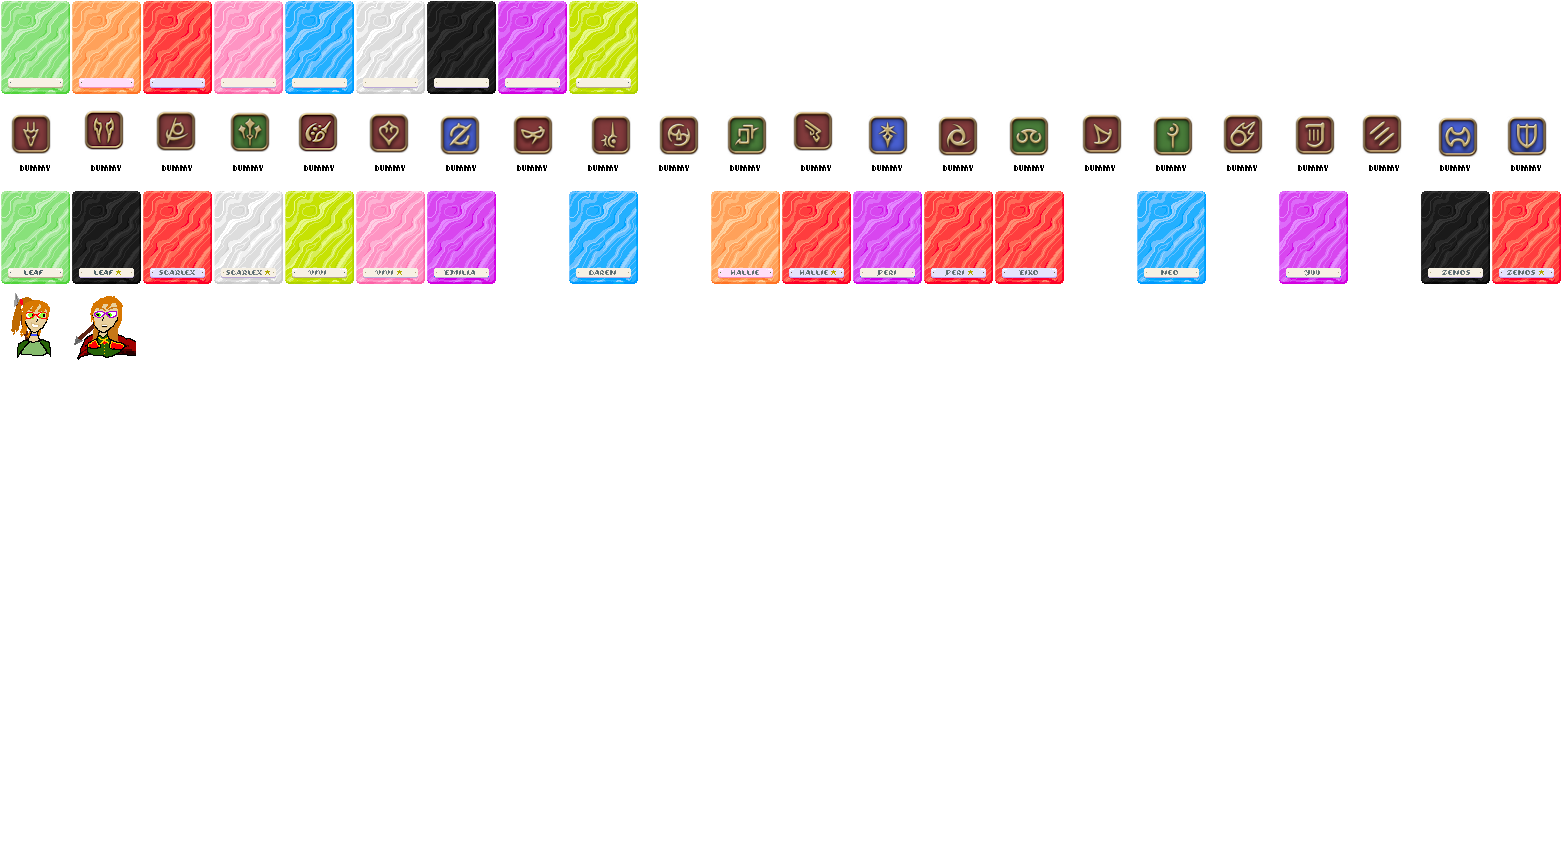
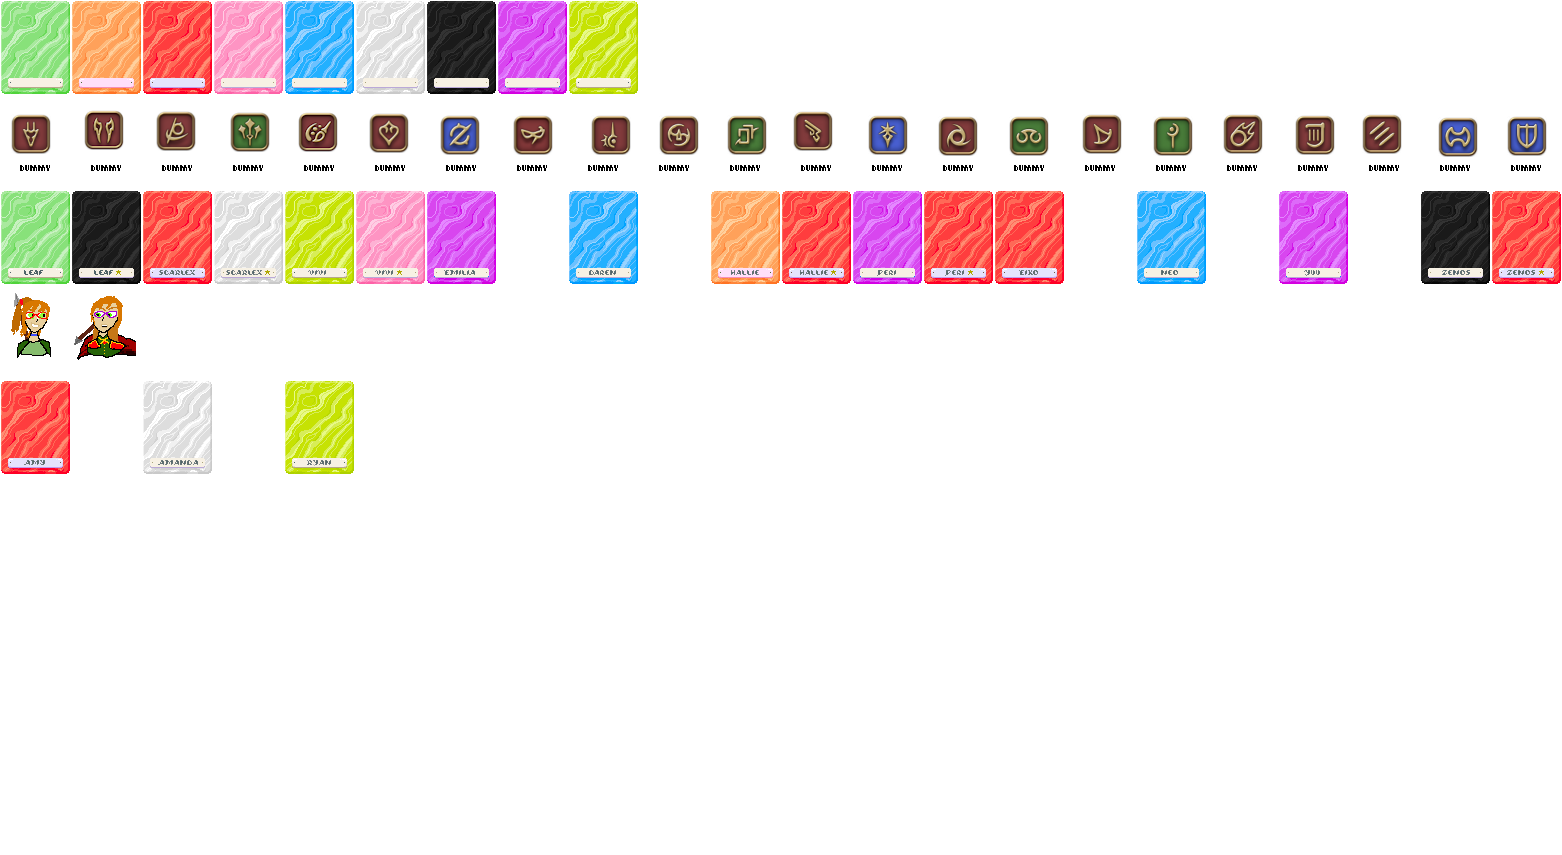
beta placeholders, paratext update, and we can call this the initial release

Changed region(s): [[0.0, 0.4257, 0.0615, 0.5778], [0.1844, 0.4257, 0.2458, 0.5778], [0.0922, 0.4257, 0.1536, 0.5778]]

diff --git a/README.md b/README.md
@@ -8,11 +8,11 @@
 5. Watch number get biggerer
 
 > [!NOTE]
-> This mod is in **pre-release alpha**, you will need to download from source.  
-> Accordingly, we will not be providing support for super basic "how do I install a mod"-level questions at this time. Please read the documents for Lovely and SMODS.
+> This mod is in **early development**.  
+> A lot of the art is still placeholders. No idea how long this will last because I am extremely inconsistent at anything.
 
 ### FAQ (Feasibly Askable Questions) ~~(nobody's asked me anything about this ._.)~~
-**Q**: So the main gimmick is just Jokers That Am OCs?  
+**Q**: So the main gimmick is just Jokers What Am OCs?  
 **A**: Mainly! I'll also put in canon characters if I feel like it.
 
 **Q**: What power level is this mod planned to be?  
@@ -22,10 +22,10 @@
 **A**: ... Not *just*, no... ~~this one's got MY ocs in it!~~ Egotism aside, as much as Bibliography is both inspired by and modeled on [that older project], it's inherently a different mod and will be its own experience. Just for starters, we're going to have different design principles. I'll probably use less xChips than they did, for example.
 
 **Q**: How many Jokers do you plan to add?  
-**A**: I plan to keep putting in Jokers until I run out of characters that I can come up with an idea for. ... I'd like at least 70 before then, but I suppose that's up to my creativity. 
+**A**: I plan to keep putting in Jokers until I run out of characters that I can come up with an in-game effect for. ... I'd like at least 70 before then, but I suppose that's up to my creativity. 
 
 **Q**: How many Jokers do you _actually_ have?  
-**A**: *(comically long pause for audio splicing)* 17 *(comically long pause for audio splicing)* at the moment, unless I forgot to update this README file, which will definitely happen at some point.
+**A**: *(comically long pause for audio splicing)* 20 *(comically long pause for audio splicing)* at the moment, unless I forgot to update this README file, which will definitely happen several times throughout the mod's lifespan.
 
 **Q**: ... Are you accepting suggestions for characters to Jokerfy?  
-**A**: Sure, if you're accepting that there's no timeline on when I get around to actually implementing a given suggestion.
+**A**: Sure, if you're accepting that there's no timeline on when I get around to actually implementing a given suggestion. I should probably set up a form or something, but... eh.
